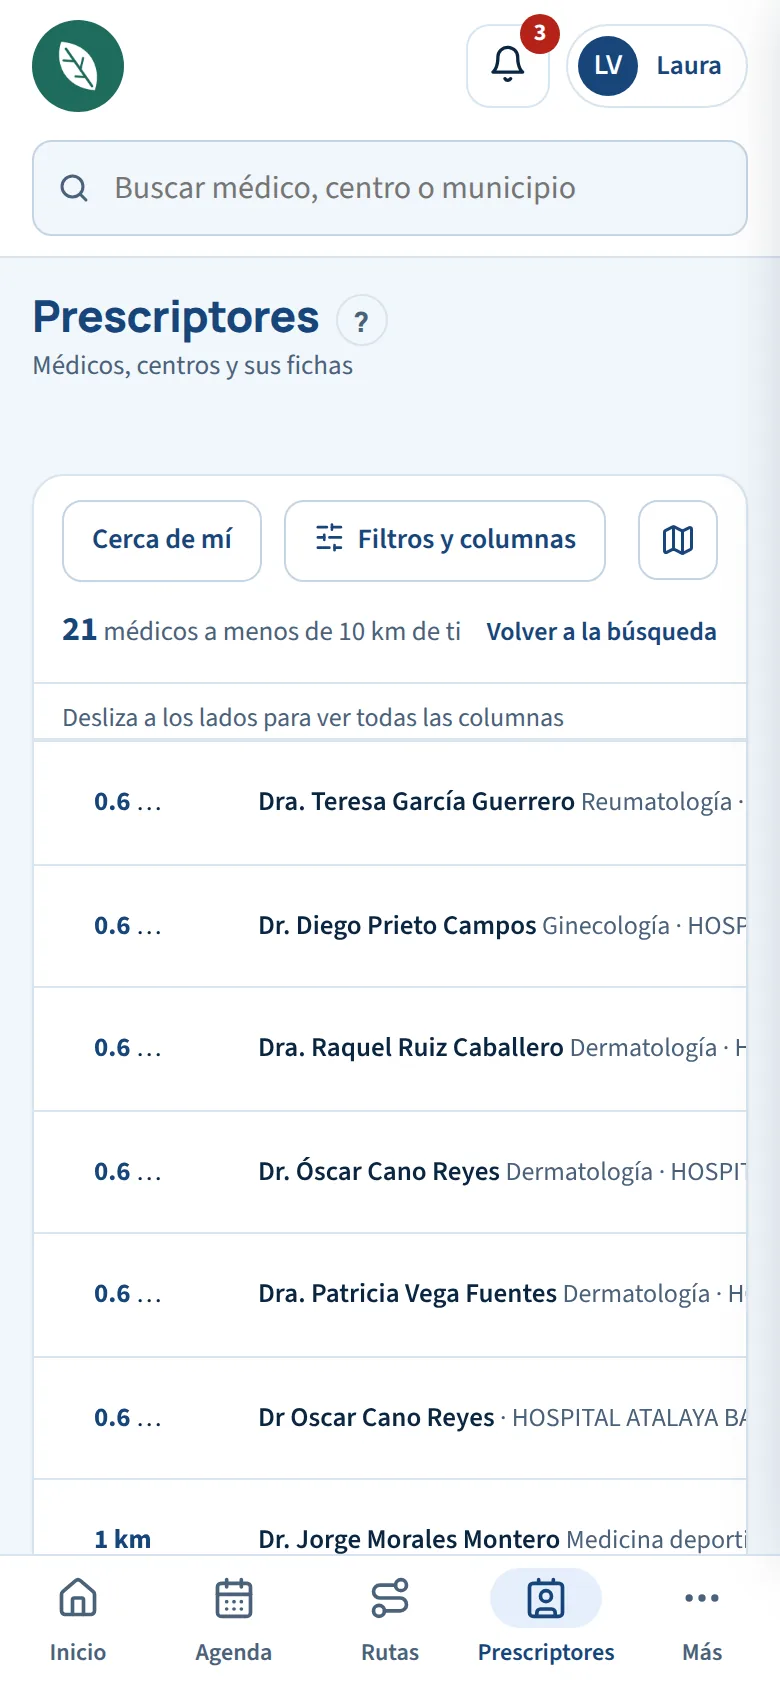
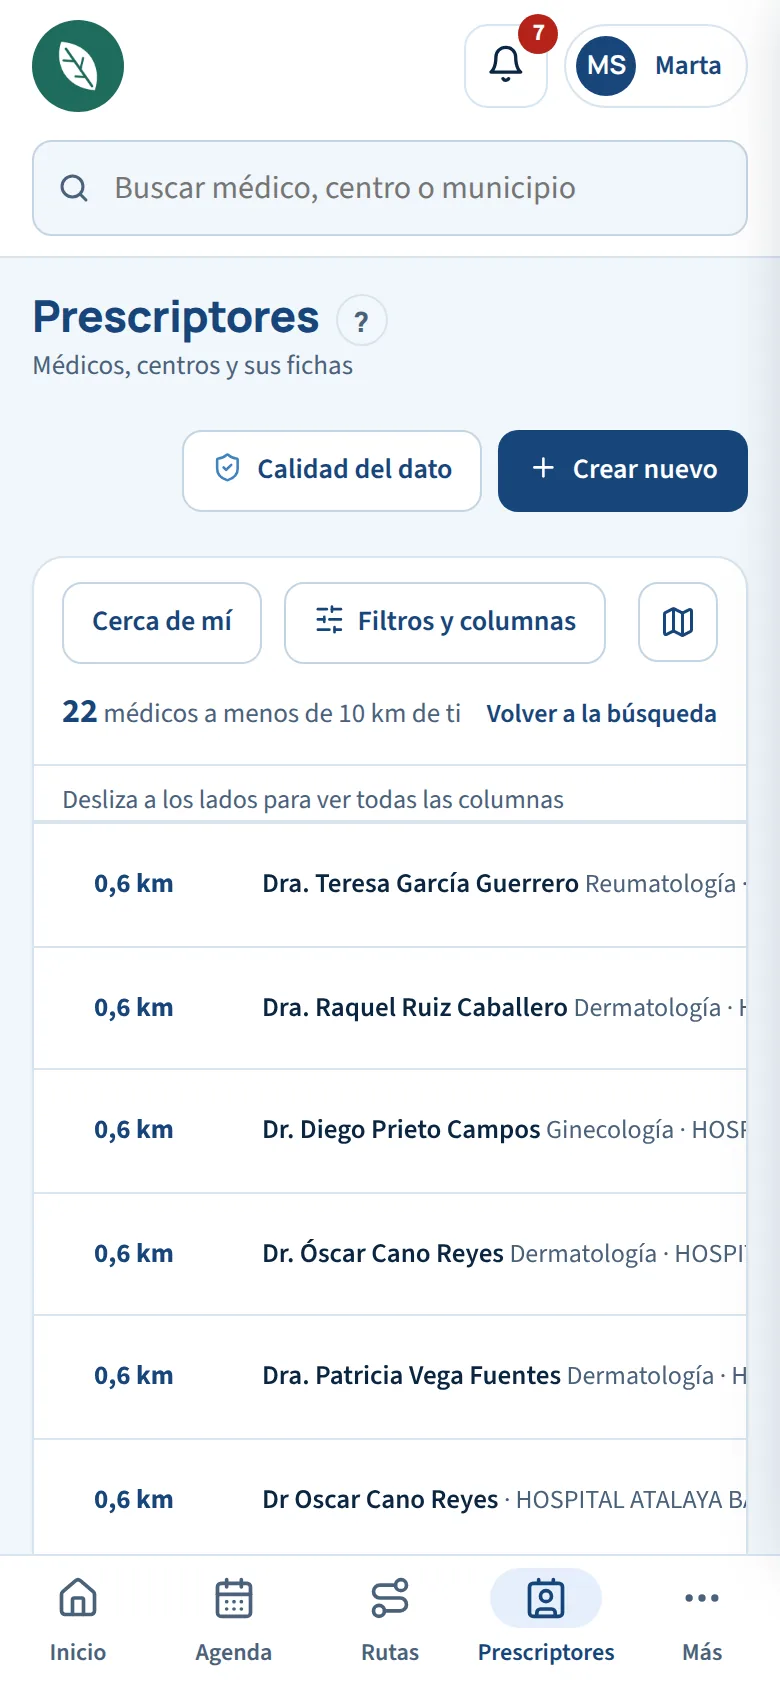
v2.210.0 · Detalles vistos al grabar el manual
- El título del directorio usa siempre el nombre del módulo (a veces salía «Médicos»).
- «Cerca de mí» en el móvil: la distancia se ve entera y el contador usa el vocabulario de la empresa.
- Ciclo → Por producto: un nombre largo ya no corta el porcentaje.
- «Rectificar»: las opciones con su tamaño normal.
- Manual: cuatro fotos actualizadas.

diff --git a/app.js b/app.js
@@ -9277,10 +9277,10 @@ function pintarCerca() {
   const l = CERCA.lista, tam = tamPagina(), pag = CERCA.pagina || 0;
   const vista = l.slice(pag * tam, pag * tam + tam);
   $('thead').innerHTML = '';
-  $('cuenta').innerHTML = `<b>${num(l.length)}</b> ${l.length === 1 ? 'médico' : 'médicos'} a menos de 10 km de ti
+  $('cuenta').innerHTML = `<b>${num(l.length)}</b> ${TT('medico', l.length === 1 ? 's' : 'p', '', 'l', 'l')} a menos de 10 km de ti
     <button class="kcfg" id="cercacerrar" style="margin-left:10px">Volver a la búsqueda</button>`;
   $('lista').innerHTML = vista.length ? vista.map(m => `<button class="trow" data-id="${m.id}" style="padding:10px 14px;gap:12px">
-      <span class="tcell" style="width:70px;min-width:70px"><b style="color:var(--navy)">${m.km} km</b></span>
+      <span class="tcell cercakm"><b style="color:var(--navy)">${String(m.km).replace('.', ',')} km</b></span>
       <span class="tcell" style="flex:1;width:auto">
         <span class="nm">${m.urgente ? '<span class="pill p-urg">Urgente</span> ' : ''}${m.sin_reporting ? `<span class="pill p-sr" title="Solo ${TT('visita', 's', '', 'l', 'l')} presencial: sin informes ni feedback">Sin reporting</span> ` : ''}${esc(m.nombre)}</span>
         <span class="sm">${esc(m.especialidad || '')} · ${esc(m.centro_nombre || '')} ${esc(m.municipio || '')}</span></span>
@@ -12256,7 +12256,8 @@ function aplicarEtiqueta() {
     [...b.childNodes].forEach(x => { if (x.nodeType === 3 && x.nodeValue.trim()) x.nodeValue = n; });
     const l = b.querySelector('b, em, small, .lb'); if (l && !l.querySelector('svg')) l.textContent = n;
   });
-  const h = document.querySelector('#dircab h1'); if (h) h.textContent = n;
+  const h = document.querySelector('#dircab h1');
+  if (h) { const tn = [...h.childNodes].find(x => x.nodeType === 3 && x.nodeValue.trim()); if (tn) tn.nodeValue = n; else h.insertAdjacentText('afterbegin', n); }
   const v = $('calvolver'); if (v) v.textContent = '‹ ' + n;
 }
 cargarAjustes = (orig => async function () { await orig(); aplicarEtiqueta(); })(cargarAjustes);
@@ -22215,3 +22216,12 @@ ir = (orig => function (...a) {
 
 /* v2.209.0 · Manual: capítulo «Configuración y cuenta» (el último). El «?» de Configuración, Mi perfil, Organización y Usuarios y roles
    lleva a su sección (MANUAL_ANCLA, editado en su sitio). */
+
+/* v2.210.0 · Detalles vistos al grabar el manual.
+   - El título del directorio usa siempre el nombre del módulo (antes salía «Médicos» si la cabecera se pintaba después de aplicarEtiqueta, editada en su sitio).
+   - «Cerca de mí»: la distancia entera y el vocabulario de la empresa (pintarCerca, editada en su sitio); cobertura por producto y «Rectificar» en el estilo. */
+ir = (orig => function (...a) {
+  const r = orig.apply(this, a);
+  if (a[0] === 'directorio') [0, 300, 1200].forEach(ms => setTimeout(() => { try { aplicarEtiqueta(); } catch (e) {} }, ms));
+  return r;
+})(ir);

diff --git a/index.html b/index.html
@@ -3346,6 +3346,12 @@ html.cambiando-org #bootsplash,html.cambiando-org #bootsplash.hide{display:grid!
 .manq::before{content:"?"}
 .manq{display:inline-flex;align-items:center;justify-content:center;width:26px;height:26px;margin-left:8px;border-radius:50%;border:1.5px solid var(--line);background:none;color:var(--muted);font:800 14px Manrope,sans-serif;cursor:pointer;vertical-align:middle}
 .manq:hover{border-color:var(--sky,#3F82C0);color:var(--sky,#3F82C0)}
+
+/* v2.210.0 · Cerca de mí, cobertura por producto y opciones de radio */
+.cercakm{width:auto!important;min-width:64px!important;flex:none!important;white-space:nowrap;overflow:visible!important}
+.cobcab h2{min-width:0;overflow-wrap:anywhere}
+.cobtot{flex:none;white-space:nowrap}
+.opt input[type=radio]{width:18px;height:18px;min-height:0;margin:0;flex:none;padding:0}
 </style>
 </head>
 <body>
@@ -3484,6 +3490,6 @@ try{var co=sessionStorage.getItem('dlc-cambio-org');if(co!==null||localStorage.g
 <script src="https://cdnjs.cloudflare.com/ajax/libs/leaflet/1.9.4/leaflet.min.js" defer crossorigin="anonymous"></script>
 <script src="https://cdn.jsdelivr.net/npm/@supabase/supabase-js@2/dist/umd/supabase.js" crossorigin="anonymous"></script>
 <script src="./config.js"></script>
-<script src="./app.js?v=2.209.0"></script>
+<script src="./app.js?v=2.210.0"></script>
 </body>
 </html>

diff --git a/sw.js b/sw.js
@@ -1,7 +1,7 @@
 /* DLC OS 2.0 · Service worker: la app se pide primero a la red (siempre la última versión)
    y solo se usa la copia guardada si no hay conexión. Nunca guarda datos. */
-const CACHE = 'dlc-os-2.209.0';
-const FILES = ['./', './index.html', './app.js?v=2.209.0', './config.js', './manifest.webmanifest',
+const CACHE = 'dlc-os-2.210.0';
+const FILES = ['./', './index.html', './app.js?v=2.210.0', './config.js', './manifest.webmanifest',
                './logo-app.png', './icon-192.png', './icon-512.png', './apple-touch-180.png', './favicon.svg'];
 
 self.addEventListener('install', e => {
